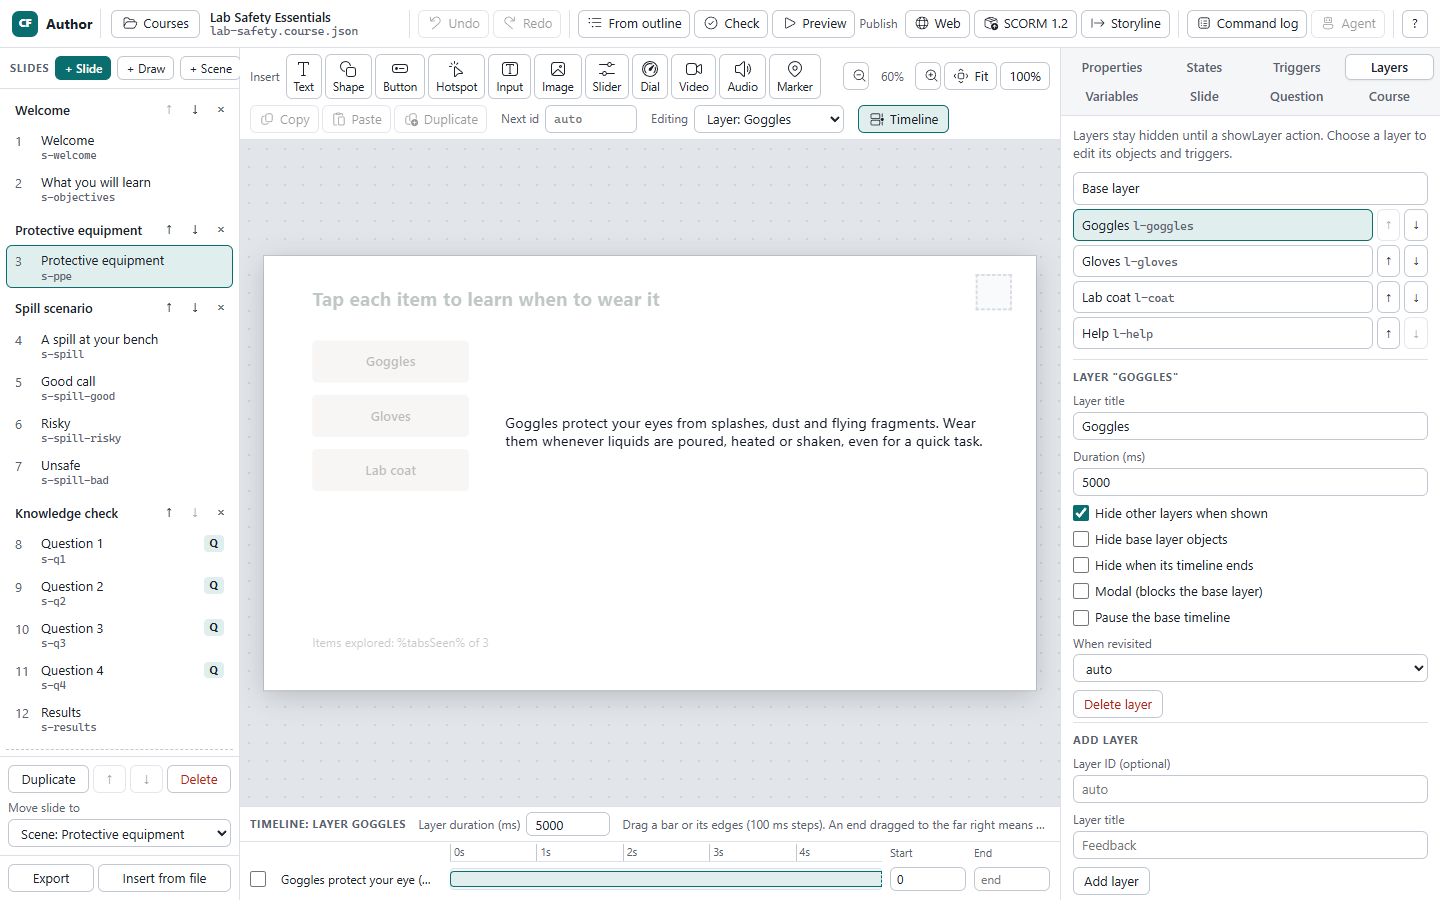
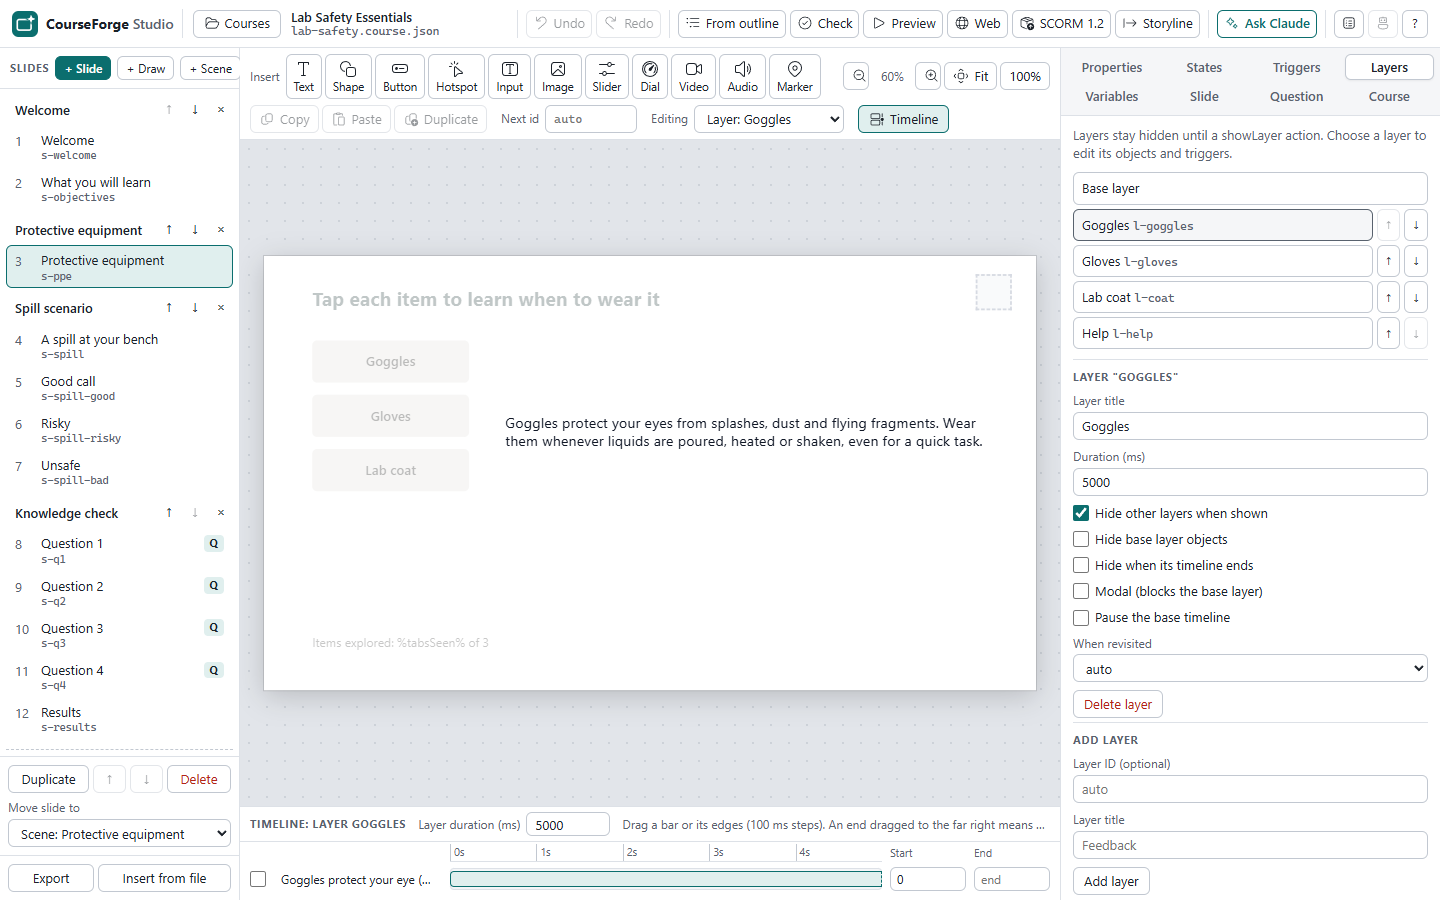
docs: rewrite the README and user guide for install, Claude and updates
Regenerated every editor screenshot with a reproducible script (npm run screenshots) and added the release workflow that builds and publishes the Windows installer on version tags.

Changed region(s): [[0.0, 0.0, 0.9688, 0.0622]]

diff --git a/docs/user-guide.md b/docs/user-guide.md
@@ -4,7 +4,7 @@ This guide shows how to build and publish courses with CourseForge Studio. It st
 
 **Contents**
 
-1. [Open CourseForge Studio](#1-open-courseforge-studio)
+1. [Install and open CourseForge Studio](#1-install-and-open-courseforge-studio)
 2. [A tour of the window](#2-a-tour-of-the-window)
 3. [Your first course in ten minutes](#3-your-first-course-in-ten-minutes)
 4. [Slides and scenes](#4-slides-and-scenes)
@@ -23,29 +23,40 @@ This guide shows how to build and publish courses with CourseForge Studio. It st
 17. [Take your work into Storyline 360](#17-take-your-work-into-storyline-360)
 18. [Saving, undo and recovery](#18-saving-undo-and-recovery)
 19. [Keyboard shortcuts](#19-keyboard-shortcuts)
-20. [Working with an AI assistant](#20-working-with-an-ai-assistant)
+20. [Claude, your AI assistant](#20-claude-your-ai-assistant)
 21. [Troubleshooting](#21-troubleshooting)
 
 ---
 
-## 1. Open CourseForge Studio
+## 1. Install and open CourseForge Studio
 
-Double-click **CourseForge Studio** on the desktop or in the Start menu. The program opens in its own window and works without an internet connection. Closing the window quits it.
+**Install.**
+1. Download `CourseForge-Studio-Setup-<version>.exe` from the [Releases page](https://github.com/WilliamEbong/courseforge-studio/releases/latest).
+2. Double-click it. It installs for your Windows account only: there is no administrator prompt and nothing else to install.
+3. The installer adds **CourseForge Studio** to the desktop and the Start menu, then opens the program.
+
+> The installer is not code-signed yet, so Windows SmartScreen may say it "protected your PC" the first time. Click **More info**, then **Run anyway**.
+
+**Open.** Double-click **CourseForge Studio** on the desktop or in the Start menu. The program opens in its own window and works without an internet connection. Opening it a second time brings the open window to the front. Closing the window quits it.
 
 Your courses are kept in **Documents\CourseForge Studio**. The first time you open the program, that folder gets two sample courses:
 
 - **Lab Safety Essentials**, a slide course with layers, triggers, variables and a quiz.
 - **Lab Basics**, a lessons course that scrolls like a web page.
 
-![The Courses screen](images/courses.png)
+![The start screen](images/courses.png)
 
-The Courses screen lists every course in the folder. From here you can:
+The start screen shows every course in the folder as a small picture of its first slide. From here you can:
 
-- **Open** a course by clicking its name.
-- **Create** a course: choose **Slides** or **Lessons**, type a file name (lowercase letters, digits and dashes, for example `safety-101`) and a title, then click **Create course**. Slides default to native `.story` storage; choose JSON for the full CF feature set. Lessons use `.course.json`.
-- **Import a Storyline file**: see [section 16](#16-bring-in-a-storyline-360-project).
+- **Open** a course by clicking it.
+- **Create with AI**: describe the course, optionally attach documents, and Claude drafts it for you to review. See [section 20](#20-claude-your-ai-assistant).
+- **From an outline**: paste headings and bullet points; each heading becomes a scene with slides.
+- **Blank course**: choose **Slides** or **Lessons**, type a file name (lowercase letters, digits and dashes, for example `safety-101`) and a title, then click **Create course**. Courses are saved as `.course.json` files; you can choose Storyline's `.story` format for slide courses instead.
+- **Open a .story file**: see [section 16](#16-bring-in-a-storyline-360-project).
 
-> **First time on a new computer?** CourseForge Studio needs Node.js 24 or later, which you can get from [nodejs.org](https://nodejs.org). To add the desktop and Start menu shortcuts, run `launcher\install-shortcuts.ps1` once with PowerShell. If the program cannot start, a message box tells you why.
+**Updates.** When a new version is published, CourseForge Studio downloads it in the background and asks whether to **Restart to update**. Your courses are never changed by an update.
+
+**Remove.** Open Windows **Settings > Apps > Installed apps**, find **CourseForge Studio** and choose **Uninstall**. Your courses stay in Documents\CourseForge Studio until you delete them yourself.
 
 ## 2. A tour of the window
 
@@ -53,7 +64,7 @@ The Courses screen lists every course in the folder. From here you can:
 
 | Area | What it is for |
 |---|---|
-| **Header** (top) | **Courses** takes you back to the course list. Next to the course name, a status says whether your last change is saved. **Undo** and **Redo** come next, then **From outline**, **Check**, **Preview**, and **Publish** (Web, SCORM 1.2, Storyline). **Command log** and **Agent** are for working with AI assistants. **?** lists the keyboard shortcuts. |
+| **Header** (top) | **Courses** takes you back to the start screen. Next to the course name, a status says whether your last change is saved. **Undo** and **Redo** come next, then **From outline**, **Check**, **Preview**, and **Publish** (Web, SCORM 1.2, Storyline). **Ask Claude** opens the AI assistant (Ctrl+I). **Command log** and **Agent** show your edits as commands for other AI tools. **?** lists the keyboard shortcuts. |
 | **Slides** (left) | Every scene and its slides, in order. Click a slide to edit it. Use the arrows to reorder scenes, and drag slides to reorder them or move them to another scene. **+ Slide**, **+ Draw** and **+ Scene** add new ones. |
 | **Insert bar** (above the canvas) | Adds text, shapes, buttons, hotspots, text inputs, images, sliders, dials, video, audio and markers to the slide. Also holds zoom, copy, paste, duplicate, the layer you are editing, and the Timeline switch. |
 | **Canvas** (centre) | The slide itself. Click an object to select it. |
@@ -64,7 +75,7 @@ The editor is laid out for windows at least 1024 pixels wide. In a narrower wind
 
 ## 3. Your first course in ten minutes
 
-1. On the Courses screen, choose **Slides**, type `my-first-course` as the file name and `My first course` as the title, then click **Create course**.
+1. On the start screen, under **New course**, choose **Slides**, type `my-first-course` as the file name and `My first course` as the title, then click **Create course**.
 2. Select the initial slide (or click **+ Slide** if the course is empty). In the inspector's **Slide** tab, give it a title such as *Welcome*.
 3. Click **Text** in the Insert bar. Type your welcome message in the **Text** box in the Properties tab, then click anywhere outside the box to save it.
 4. Click **Image**. Click **Choose file…**, pick a picture from your computer and describe it in **Alt text**. Click **Insert image**. (Or open the **Library** tab and pick one of the built-in pictures.)
@@ -229,7 +240,7 @@ A lessons course is an outline of sections and lessons that learners scroll thro
 
 ## 13. Themes and the image library
 
-- **Player style** (Course tab) selects Modern or Classic. New `.story` courses select Modern. CF uses its responsive charcoal presentation for Modern; explicit theme colours take precedence. Imported native player colours and controls remain preserved in the file, but CF does not reproduce every native setting.
+- **Player style** (Course tab) selects Modern or Classic. New `.story` courses select Modern. CourseForge Studio uses its responsive charcoal presentation for Modern; explicit theme colours take precedence. Imported native player colours and controls remain preserved in the file, but CourseForge Studio does not reproduce every native setting.
 - **Theme** (Course tab) sets the player's colours and font for learners. There are six presets: Default (Modern uses charcoal; otherwise follows the learner's light or dark setting), Light, Charcoal, Ocean, Forest and High contrast. Every preset meets WCAG AA contrast.
 - **Library** (in the Image dialog) holds original pictures you can use freely in your courses.
 
@@ -275,8 +286,8 @@ Learners can use the course with the keyboard alone, and with a screen reader. Q
 
 Import creates a new course and leaves the source file unchanged. Opening an existing `.story` already in your courses folder edits that file directly.
 
-1. On the Courses screen, under **Import a Storyline file**, click **Choose file…** and pick the `.story` file. It is copied into your courses folder.
-2. Check the course name (lowercase letters, digits and dashes), choose native `.story` or conversion to JSON, and click **Import**. Native keeps the source archive's unedited content; JSON conversion retains the mapped CF model.
+1. On the start screen, under **Import a .story file**, click **Choose file…** and pick the `.story` file. It is copied into your courses folder.
+2. Check the course name (lowercase letters, digits and dashes), choose native `.story` or conversion to JSON, and click **Import**. Native keeps the source archive's unedited content; JSON conversion keeps the mapped course model.
 3. The new course opens. Next to it, `<name>.import-report.json` lists anything that could not come across exactly. Each entry says what it is, where it is and why.
 
 **What comes across:**
@@ -293,7 +304,7 @@ Import creates a new course and leaves the source file unchanged. Opening an exi
 **What to check after import:**
 - Approximations are listed in the report as `heuristic`. Examples are block arrows drawn as plain arrows and gradient fills turned into solid colours.
 - Some formatting cannot come across, including paragraph spacing and unusual list markers. On Windows, EMF pictures are rendered to PNG for display and publishing; the original media remains in the native archive. Failed conversions are reported.
-- Supported text boxes shrink their displayed text to fit while retaining the authored font size. You can edit their text, but CF cannot yet resize fitted native text boxes. Converted vector and table graphics are display-only in native files.
+- Supported text boxes shrink their displayed text to fit while retaining the authored font size. You can edit their text, but CourseForge Studio cannot yet resize fitted native text boxes. Converted vector and table graphics are display-only in native files.
 - Supported slide-count and quiz completion settings and LMS reporting statuses are imported. Unsupported tracking and player options are reported; check completion, scoring and resume in your LMS.
 
 Native support is experimental. Full-course compatibility with Storyline 360 has not yet been verified. Review the report and keep your original file.
@@ -341,16 +352,45 @@ Press **?** (outside a text field) for the full list.
 
 ![Keyboard shortcuts](images/shortcuts.png)
 
-## 20. Working with an AI assistant
+## 20. Claude, your AI assistant
 
-Everything you can do in the editor, an AI assistant can do too, through the same commands. Assistants connect through the `cf` command line, a local web interface or MCP. **Command log** shows each change you make as a command. **Agent** shows how an assistant would make the same change. When an assistant edits an open course, you see the change straight away. For setup and the full command list, see the [agent guide](agent-guide.md) and the [command reference](commands.md).
+CourseForge Studio uses **Claude Code** on your computer, signed in with your own Claude account, so there is no key to paste and nothing extra to pay for beyond your Claude plan. AI is off until you turn it on.
+
+**Set up (once).**
+1. Install Claude Code from [claude.com/claude-code](https://claude.com/claude-code).
+2. Open Windows Terminal, type `claude`, press Enter, then type `/login` and sign in in your browser.
+3. In CourseForge Studio, click **Set up Claude** on the start screen (or the gear in the Claude panel). The three checks turn green: installed, signed in, turned on.
+
+![AI settings](images/ai-settings.png)
+
+In the same dialog you choose the model (**Fast**, **Balanced** or **Best**) and a **daily request limit** (100 by default). Today's use is shown underneath. **What Claude sees** explains exactly what is sent: your request, the open course, and any document you attach.
+
+**Ask for a change.** Open a course and click **Ask Claude** (Ctrl+I). Type what you want in your own words, for example *Add alt text to every image* or *Rewrite this slide in plainer language*, and press **Send** (Ctrl+Enter). With **About slide …** ticked, "this slide" means the slide you are on.
+
+Claude works on a copy of your course. When it finishes, a **change card** shows what it did, the exact lines that changed (green added, red removed) and the commands it ran. Click **Apply** to make the change, or **Discard** to throw it away. An applied change is one step: **Undo** reverses it. If you edit the course while Claude is working, Apply is refused so nothing you did is overwritten; ask again.
+
+![A change card](images/assistant.png)
+
+**Create a course with AI.** On the start screen, click **Create with AI**:
+1. **Brief**: say what the course should teach and who it is for, pick a length and a type, and attach source documents if you have them (Word, PDF, Markdown or text).
+2. **Outline**: Claude drafts an outline sized to the length you picked. Edit the title, the file name and any line of the outline, or click **Draft again**.
+3. **Build**: Claude builds the course one scene or section at a time. The new course appears on the start screen only when it is complete. If building stops (for example at your daily limit), click **Continue building**: finished parts are kept.
+
+![Creating a course with AI](images/create-ai.png)
+
+**Review a course.** In the Claude panel, click **Review course**. Claude reads the whole course and lists up to ten things to fix, most important first. **Fix with Claude** sends a finding to the assistant, which proposes the fix as a change card.
+
+**Other AI tools.** Everything you can do in the editor, other assistants can do through the same commands, using the `cf` command line, a local web interface or MCP. **Command log** shows each change you make as a command; **Agent** shows how an assistant would make the same change. See the [agent guide](agent-guide.md) and the [command reference](commands.md).
 
 ## 21. Troubleshooting
 
 | Problem | What to do |
 |---|---|
-| A message says CourseForge Studio could not start | Read the reason in the message. If another program is using the port, close it, or start CourseForge Studio from a terminal with `npm run cf -- app --port 8480`. The details are saved in `%LOCALAPPDATA%\CourseForge Studio\last-error.txt`. |
-| "CourseForge Studio needs Node.js" | Install Node.js 24 or later from nodejs.org, then open CourseForge Studio again. |
+| A message says CourseForge Studio could not start | Read the reason in the message and follow its advice. The details are saved in `%APPDATA%\CourseForge Studio\logs\main.log`. |
+| Windows says it "protected your PC" when installing | Click **More info**, then **Run anyway**. The installer is not code-signed yet. |
+| "Claude Code is not installed" or "not signed in" | Follow the steps in [section 20](#20-claude-your-ai-assistant), then click **Check again** in AI settings. |
+| Claude says it is busy or at its usage limit | Wait a few minutes and try again. Your course was not changed. |
+| "You have used today's AI requests" | The limit resets at midnight (UTC). You can raise it in AI settings. |
 | The window feels cramped | Make it wider. Below 1024 pixels, the editor scrolls sideways. |
 | A change shows **Not saved** | Read the message beside the field, correct the value and leave the field again. |
 | Fonts look different for learners | Use fonts installed on learners' computers. Fonts are not embedded. |

diff --git a/README.md b/README.md
@@ -1,15 +1,77 @@
 # CourseForge Studio
 
-AI-assisted e-learning authoring for Windows. Build slide courses (states, layers, triggers, variables, quizzes) or scrolling lessons courses. Let Claude draft, review and fix them. Publish to offline Web or SCORM 1.2.
+**Build interactive e-learning courses on your own computer, with Claude as your co-author.**
 
-> Work in progress. Install instructions arrive with the first release.
+CourseForge Studio is a free, open-source desktop app for Windows. You build slide courses (states, layers, triggers, variables, quizzes) or scrolling lessons courses, then publish them to offline Web or SCORM 1.2 for any LMS. Claude, through your own Claude account, can draft a course from a brief or your documents, review it, and fix what it finds. You see every change before it is applied.
+
+![The start screen](docs/images/courses.png)
+
+## What it does
+
+- **Slide courses:** scenes, slides, text, shapes, buttons, images, video and audio with captions, hotspots, sliders, dials, markers. Objects have states, layers and triggers with conditions, plus variables, a timeline and animations.
+- **Quizzes:** eight question types, question banks and random draws, results slides with Retry and Review, and LMS reporting.
+- **Lessons courses:** 21 block types (accordion, tabs, flashcards, process, scenario and more) that read well on phones.
+- **Themes, an original image library, an accessibility check and live Preview.**
+- **Publish:** Web (works offline from `index.html`) and SCORM 1.2, plus PowerPoint and question-file export. Opens and saves `.story` files.
+- **Claude built in:**
+  - **Create with AI** turns a brief and optional Word, PDF, Markdown or text files into an outline you edit, then builds the course.
+  - **Ask Claude** changes the open course from a plain-language request.
+  - **Review course** lists what to fix, and each finding can be fixed with one click.
+
+  Every AI change arrives as a change card that you apply or discard. An applied change is one Undo step.
+- **For agents and scripts:** the same command registry is available from the `cf` command line, a local HTTP API and an MCP server.
+
+![Claude's change card](docs/images/assistant.png)
+
+## Install
+
+1. Download `CourseForge-Studio-Setup-<version>.exe` from [Releases](https://github.com/WilliamEbong/courseforge-studio/releases/latest).
+2. Double-click it. It installs for your Windows account: there is no administrator prompt and nothing else to install. It adds Desktop and Start menu shortcuts and opens the app with two sample courses.
+3. The installer is not code-signed yet. If SmartScreen appears, choose **More info**, then **Run anyway**.
+
+Updates download in the background and ask before restarting. To remove the app, go to **Settings > Apps > Installed apps > CourseForge Studio > Uninstall**. Your courses stay in `Documents\CourseForge Studio`.
+
+## Turn on Claude (optional)
+
+1. Install [Claude Code](https://claude.com/claude-code). Open a terminal, run `claude`, and sign in with `/login`.
+2. In CourseForge Studio, click **Set up Claude** and turn AI on.
+
+AI is off until you turn it on. CourseForge Studio stores no API key: it uses Claude Code on your computer with your own plan.
+
+- **What is sent:** only your request, the open course and any document you attach.
+- **How changes land:** Claude edits a copy, and nothing changes until you choose Apply.
+- **Limits:** a daily request limit (100 by default) and per-request step limits keep usage predictable.
+
+The [user guide](docs/user-guide.md) covers everything step by step.
 
 ## Develop
+
+Requires Node.js 24 and Google Chrome (for the browser tests).
+
 ```bash
 npm ci
 npm test
 npm run e2e
-npm run cf -- app
+npm start
+npm run dist
 ```
 
-MIT licence.
+`npm test` runs the unit tests and `npm run e2e` the browser tests. `npm start` runs the desktop app from source, and `npm run dist` builds the Windows installer into `dist/`.
+
+AI tests use a scripted provider and never call Claude. The packages are plain JavaScript ES modules with no build step:
+
+| Package | What it is |
+|---|---|
+| `schema`, `core` | Course format, validation, and the command registry every front end uses |
+| `runtime`, `player` | Learner runtime and players (slides and lessons) |
+| `editor` | The authoring UI |
+| `server`, `desktop` | Local HTTP server, and the Electron shell |
+| `ai` | Claude Code CLI provider, assistant drafts, create-with-AI and review |
+| `publisher`, `import-story`, `export-story` | Web, SCORM, PPTX, question files and `.story` |
+| `cli`, `mcp`, `lms-test-harness` | Command line, MCP server, and a local SCORM 1.2 test LMS |
+
+See [docs/agent-guide.md](docs/agent-guide.md) to drive the app from your own agents.
+
+## Licence
+
+MIT. Storyline 360, PowerPoint and Excel are trademarks of their owners and are named only to describe file compatibility. CourseForge Studio is not affiliated with them.
